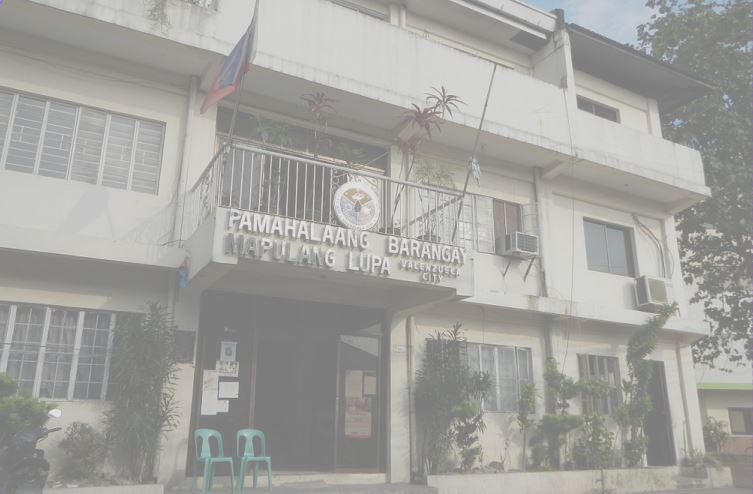
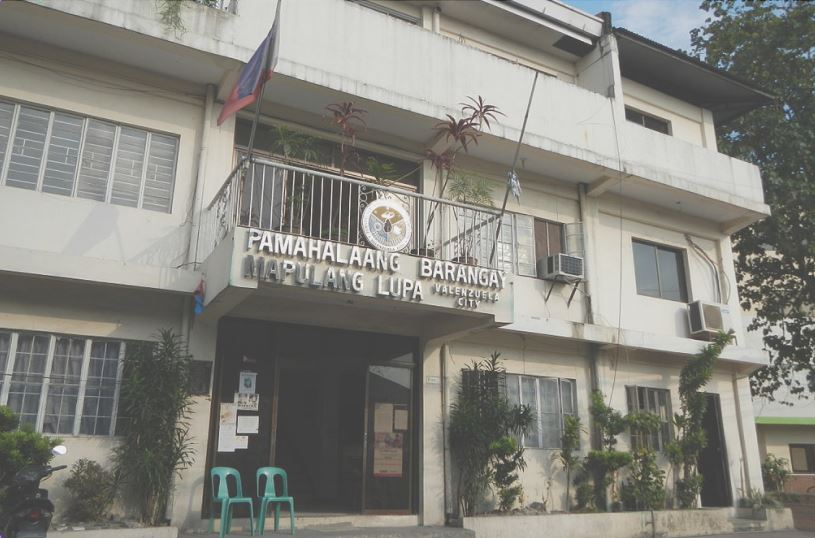
paku1

diff --git a/main.css b/main.css
@@ -16,6 +16,7 @@ body{
     background:  url(images/barangay.jpg);
     background-repeat: no-repeat;
     background-size: cover;
+
 }
 
 
@@ -120,7 +121,7 @@ nav a:hover {
     width: 50%;
     height: 100%;
     background-color: white;
-    opacity: 0.8;
+    opacity: 0.6;
     position: absolute;
     left: 0;
     top: 0;
